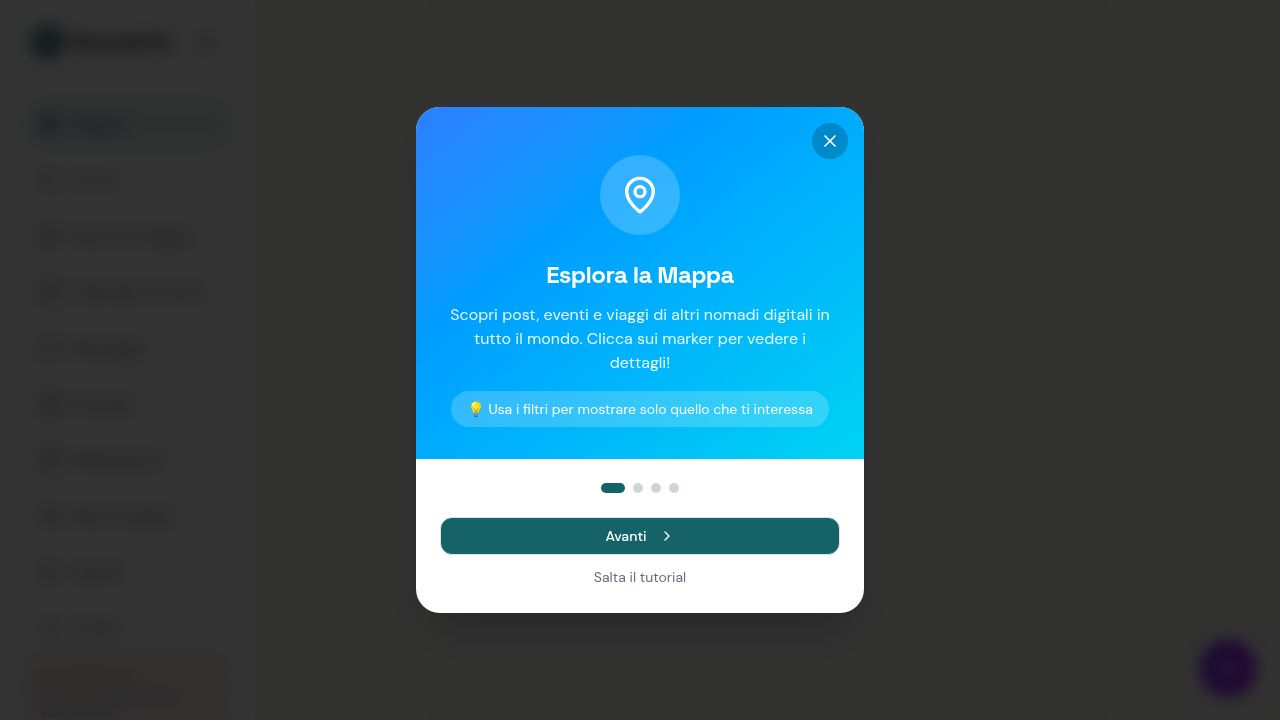
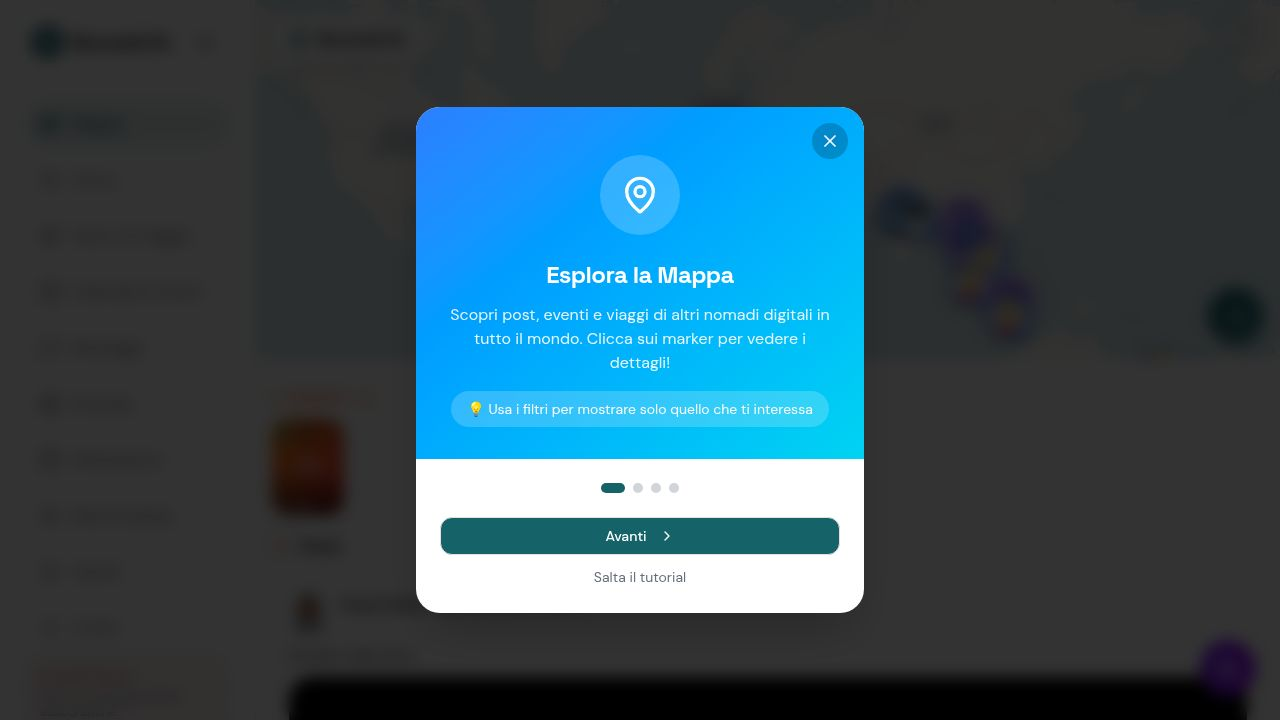
Improve automatic location detection when creating posts
Update the `CreatePostForm` component to include a loading indicator for location detection, increase the timeout for obtaining GPS coordinates, and provide clearer error messages for denied permissions, timeouts, or other issues.

Replit-Commit-Author: Agent
Replit-Commit-Session-Id: df86f0ff-2318-4ff1-a21b-c09623509764
Replit-Commit-Checkpoint-Type: full_checkpoint
Replit-Commit-Event-Id: c4efeb82-6716-4469-a222-6caf30199ecd
Replit-Commit-Screenshot-Url: https://storage.googleapis.com/screenshot-production-us-central1/2f2ee5f6-d4f3-4be6-99b5-e797923fa171/df86f0ff-2318-4ff1-a21b-c09623509764/7xbDoAo
Replit-Helium-Checkpoint-Created: true

diff --git a/client/src/components/CreatePostForm.tsx b/client/src/components/CreatePostForm.tsx
@@ -44,6 +44,7 @@ export function CreatePostForm({ onPostCreated }: CreatePostFormProps) {
   const [showTripSelect, setShowTripSelect] = useState(false);
   const [isExpanded, setIsExpanded] = useState(false);
   const [isSubmitting, setIsSubmitting] = useState(false);
+  const [isGettingLocation, setIsGettingLocation] = useState(false);
   
   const { data: myTrips = [] } = useQuery<any[]>({
     queryKey: ["/api/my-trips"],
@@ -123,27 +124,42 @@ export function CreatePostForm({ onPostCreated }: CreatePostFormProps) {
   };
 
   const handleGetLocation = () => {
-    if (navigator.geolocation) {
-      navigator.geolocation.getCurrentPosition(
-        async (position) => {
-          try {
-            const { latitude, longitude } = position.coords;
-            const response = await fetch(
-              `https://nominatim.openstreetmap.org/reverse?lat=${latitude}&lon=${longitude}&format=json`
-            );
-            const data = await response.json();
-            const city = data.address?.city || data.address?.town || data.address?.village || "";
-            const country = data.address?.country || "";
-            setLocation(city && country ? `${city}, ${country}` : data.display_name?.split(",").slice(0, 2).join(",") || "");
-          } catch {
-            setLocation(`${position.coords.latitude.toFixed(2)}, ${position.coords.longitude.toFixed(2)}`);
-          }
-        },
-        () => {
-          toast({ title: "Accesso posizione negato", description: "Abilita l'accesso alla posizione o inseriscila manualmente.", variant: "destructive" });
-        }
-      );
+    if (!navigator.geolocation) {
+      toast({ title: "GPS non disponibile", description: "Il tuo browser non supporta la geolocalizzazione. Inserisci la posizione manualmente.", variant: "destructive" });
+      return;
     }
+    setIsGettingLocation(true);
+    navigator.geolocation.getCurrentPosition(
+      async (position) => {
+        try {
+          const { latitude, longitude } = position.coords;
+          const response = await fetch(
+            `https://nominatim.openstreetmap.org/reverse?lat=${latitude}&lon=${longitude}&format=json`
+          );
+          const data = await response.json();
+          const city = data.address?.city || data.address?.town || data.address?.village || "";
+          const country = data.address?.country || "";
+          setLocation(city && country ? `${city}, ${country}` : data.display_name?.split(",").slice(0, 2).join(",") || "");
+          toast({ title: "Posizione trovata!", description: city && country ? `${city}, ${country}` : "Coordinate impostate" });
+        } catch {
+          setLocation(`${position.coords.latitude.toFixed(2)}, ${position.coords.longitude.toFixed(2)}`);
+          toast({ title: "Posizione trovata!", description: "Coordinate GPS impostate" });
+        } finally {
+          setIsGettingLocation(false);
+        }
+      },
+      (error) => {
+        setIsGettingLocation(false);
+        if (error.code === error.PERMISSION_DENIED) {
+          toast({ title: "Accesso posizione negato", description: "Abilita la posizione nelle impostazioni del browser, oppure inseriscila manualmente.", variant: "destructive" });
+        } else if (error.code === error.TIMEOUT) {
+          toast({ title: "Timeout posizione", description: "Non è stato possibile ottenere la posizione in tempo. Riprova o inseriscila manualmente.", variant: "destructive" });
+        } else {
+          toast({ title: "Errore posizione", description: "Impossibile ottenere la posizione. Inseriscila manualmente.", variant: "destructive" });
+        }
+      },
+      { enableHighAccuracy: true, timeout: 15000, maximumAge: 60000 }
+    );
   };
 
   return (
@@ -271,9 +287,15 @@ export function CreatePostForm({ onPostCreated }: CreatePostFormProps) {
                     variant="ghost"
                     size="sm"
                     onClick={handleGetLocation}
+                    disabled={isGettingLocation}
                     className="text-xs h-8"
+                    data-testid="button-auto-location"
                   >
-                    Auto
+                    {isGettingLocation ? (
+                      <><Loader2 className="w-3 h-3 animate-spin mr-1" /> GPS...</>
+                    ) : (
+                      <><MapPin className="w-3 h-3 mr-1" /> Auto</>
+                    )}
                   </Button>
                 </div>
 